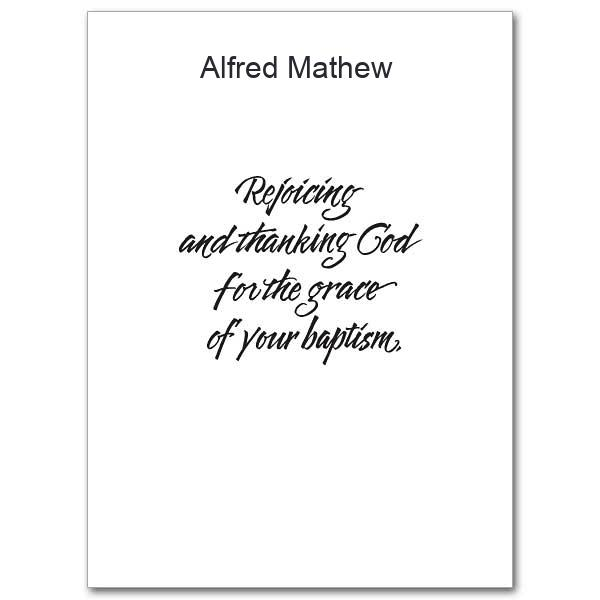
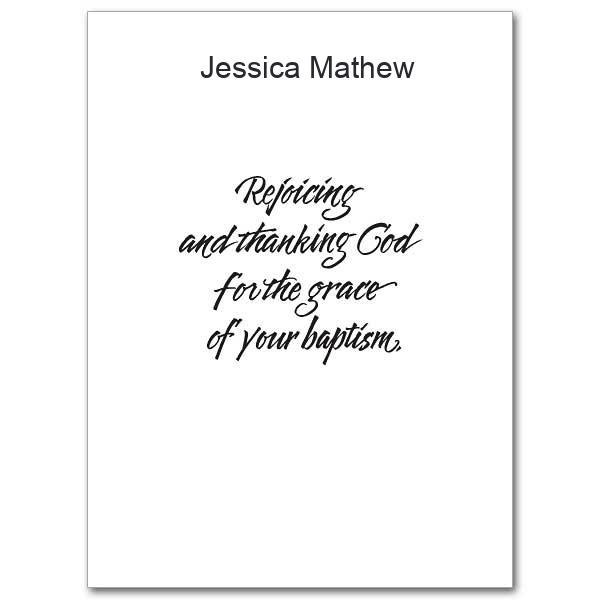
added new email account

Changed region(s): [[0.33, 0.09, 0.69, 0.15]]

diff --git a/sender.py b/sender.py
@@ -16,11 +16,11 @@ from email.mime.multipart import MIMEMultipart
 from email.mime.text import MIMEText
     
 def main(): 
-    send_email('Alfred','Mathew')
+    send_email('Jessica','Mathew')
 
 def send_email(first_name, last_name):
     port = 465  # For SSL
-    sender_email = "alfredmathew718@gmail.com"
+    sender_email = "lifeinchrist.stm@gmail.com"
     receiver_email = "alfredmathew@outlook.com"  # Enter receiver address
     smtp_server = "smtp.gmail.com"
     message = MIMEMultipart()
@@ -29,7 +29,7 @@ def send_email(first_name, last_name):
     message['To'] = receiver_email
 
     # use getpass module here
-    password = kr.get_password('gmail','alfredmathew718')
+    password = kr.get_password('gmail','lic.stm')
 
     # Create the plain-text and HTML version of your message
     # text = '''\
@@ -115,7 +115,7 @@ def filter_data(data):
     return pd.Series(list)
 
 def edit_image(imgno,first_name,last_name):
-    img = Image.open(f'./img/{imgno}.jpg')
+    img = Image.open(f'./img/resources/{imgno}.jpg')
     draw = ImageDraw.Draw(img)
     # font = ImageFont.truetype(<font-file>, <font-size>)
     font = ImageFont.truetype('/Library/Fonts/Arial.ttf', 30)
